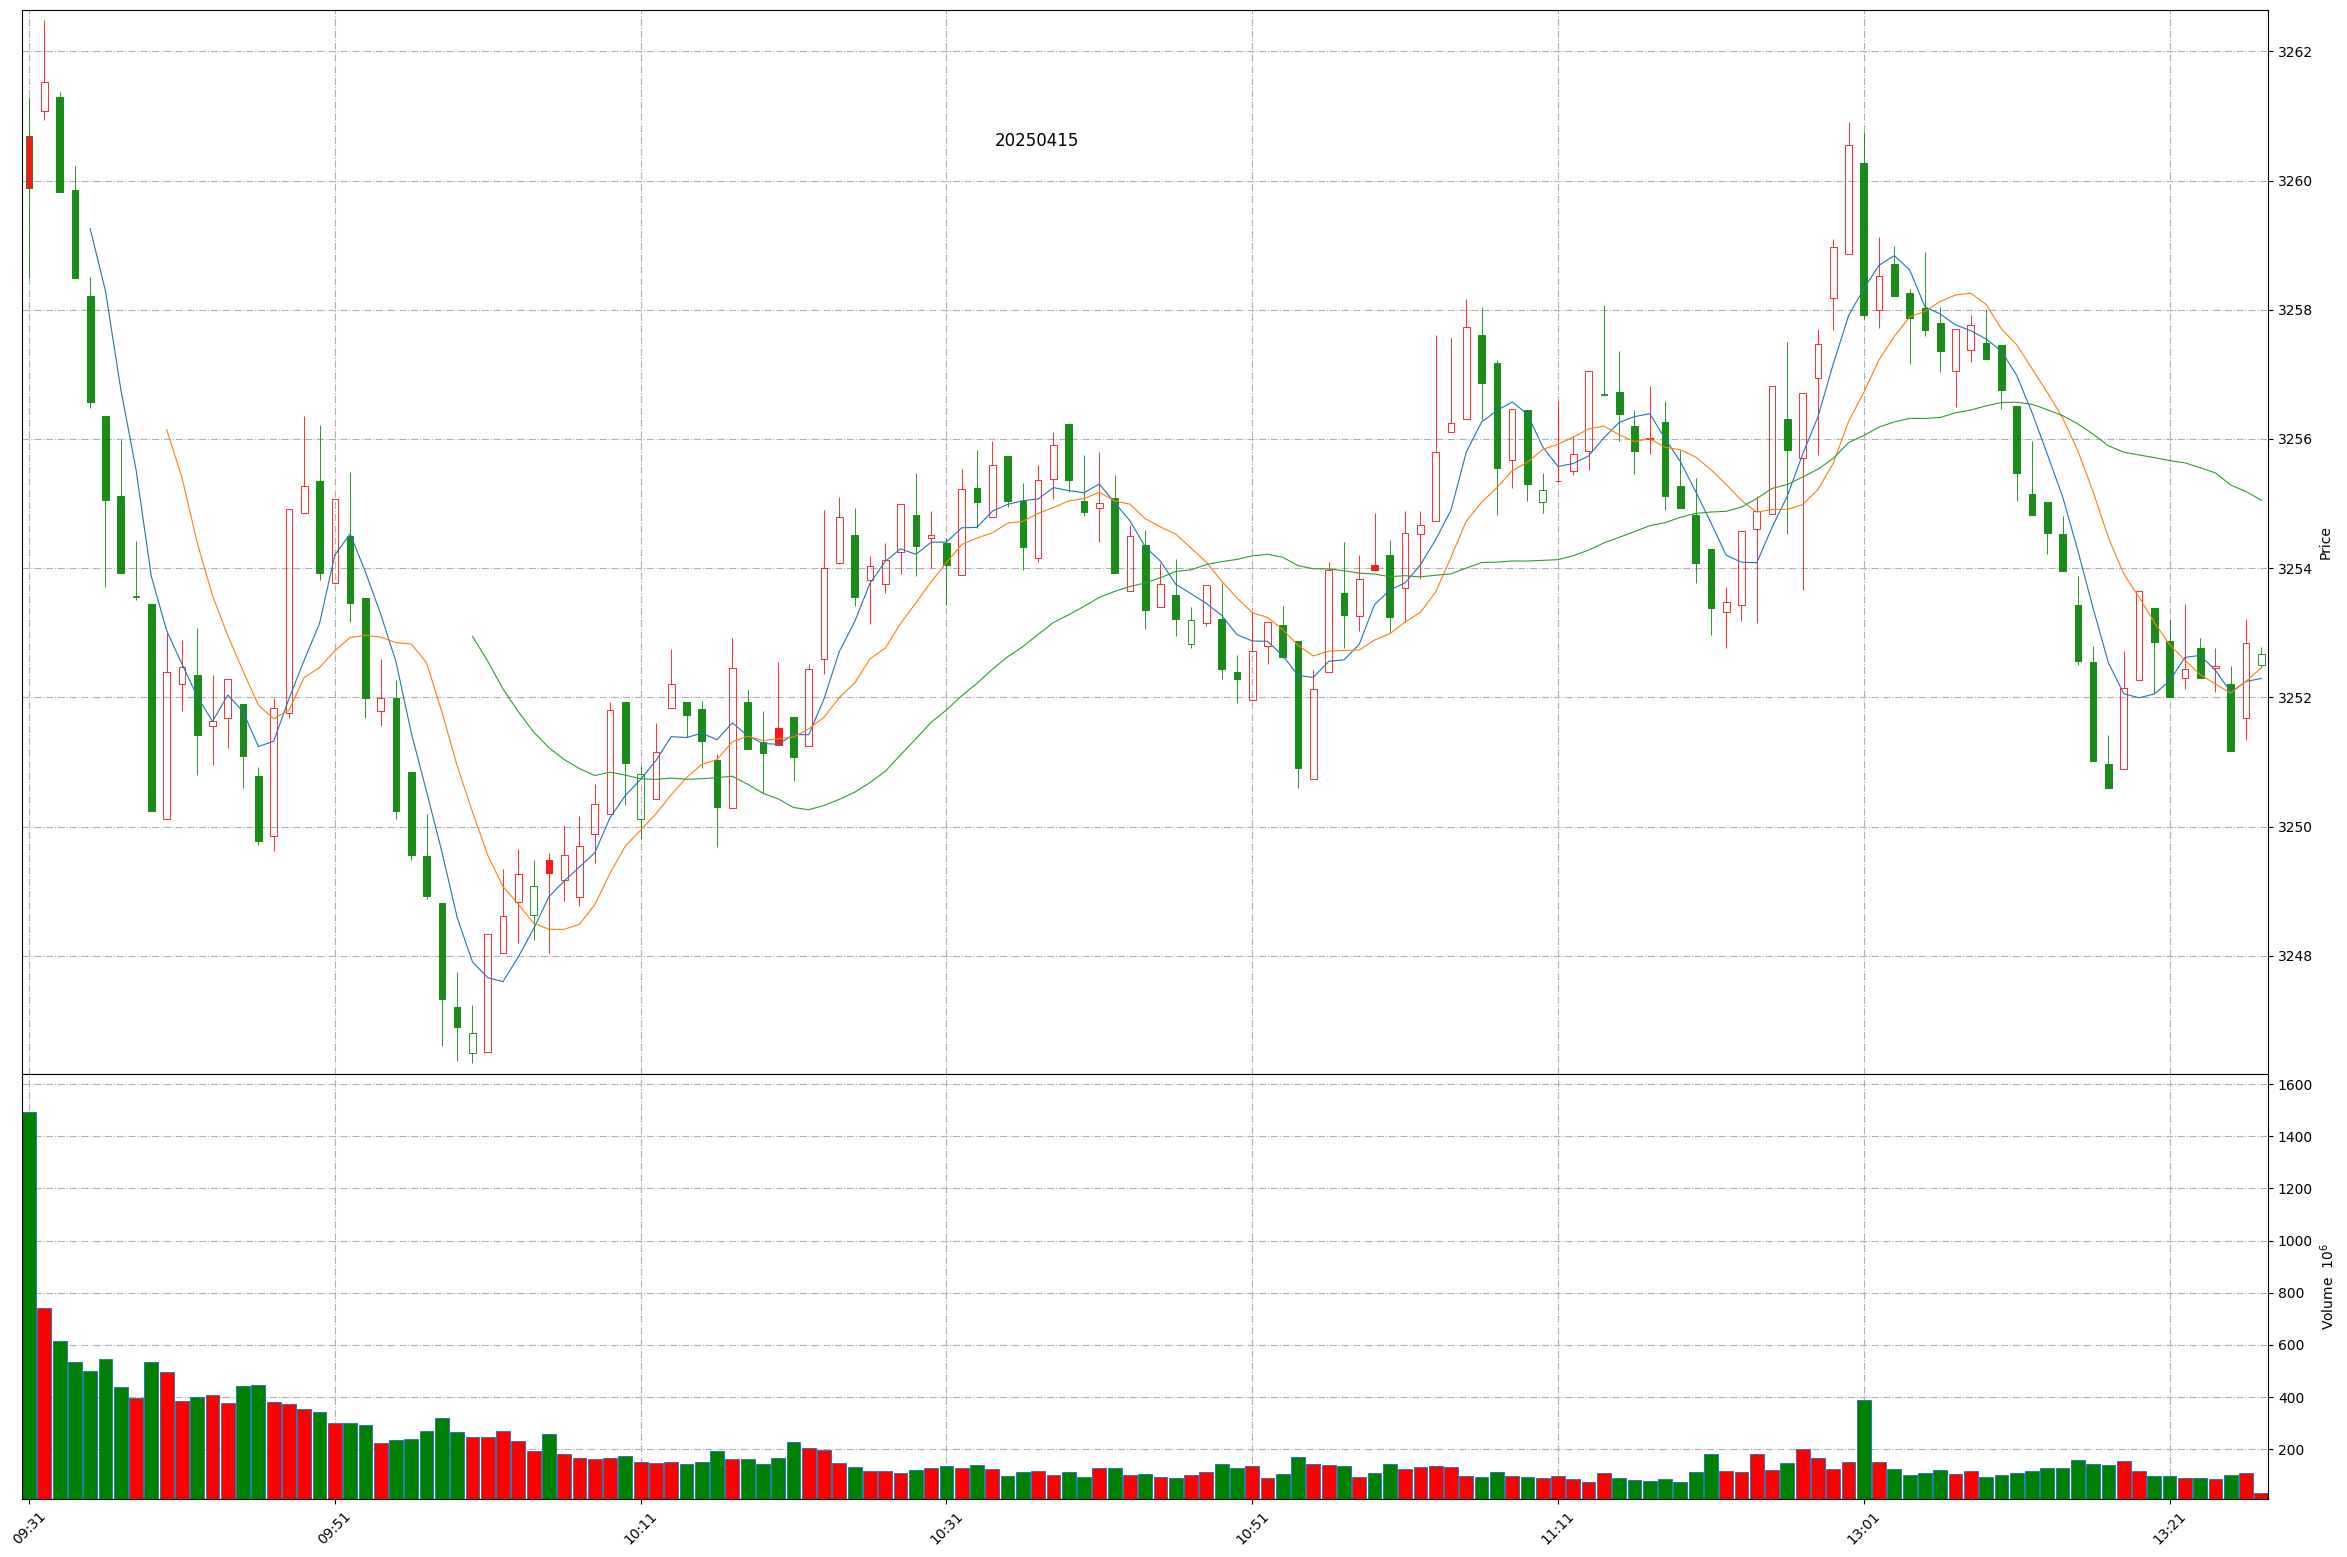
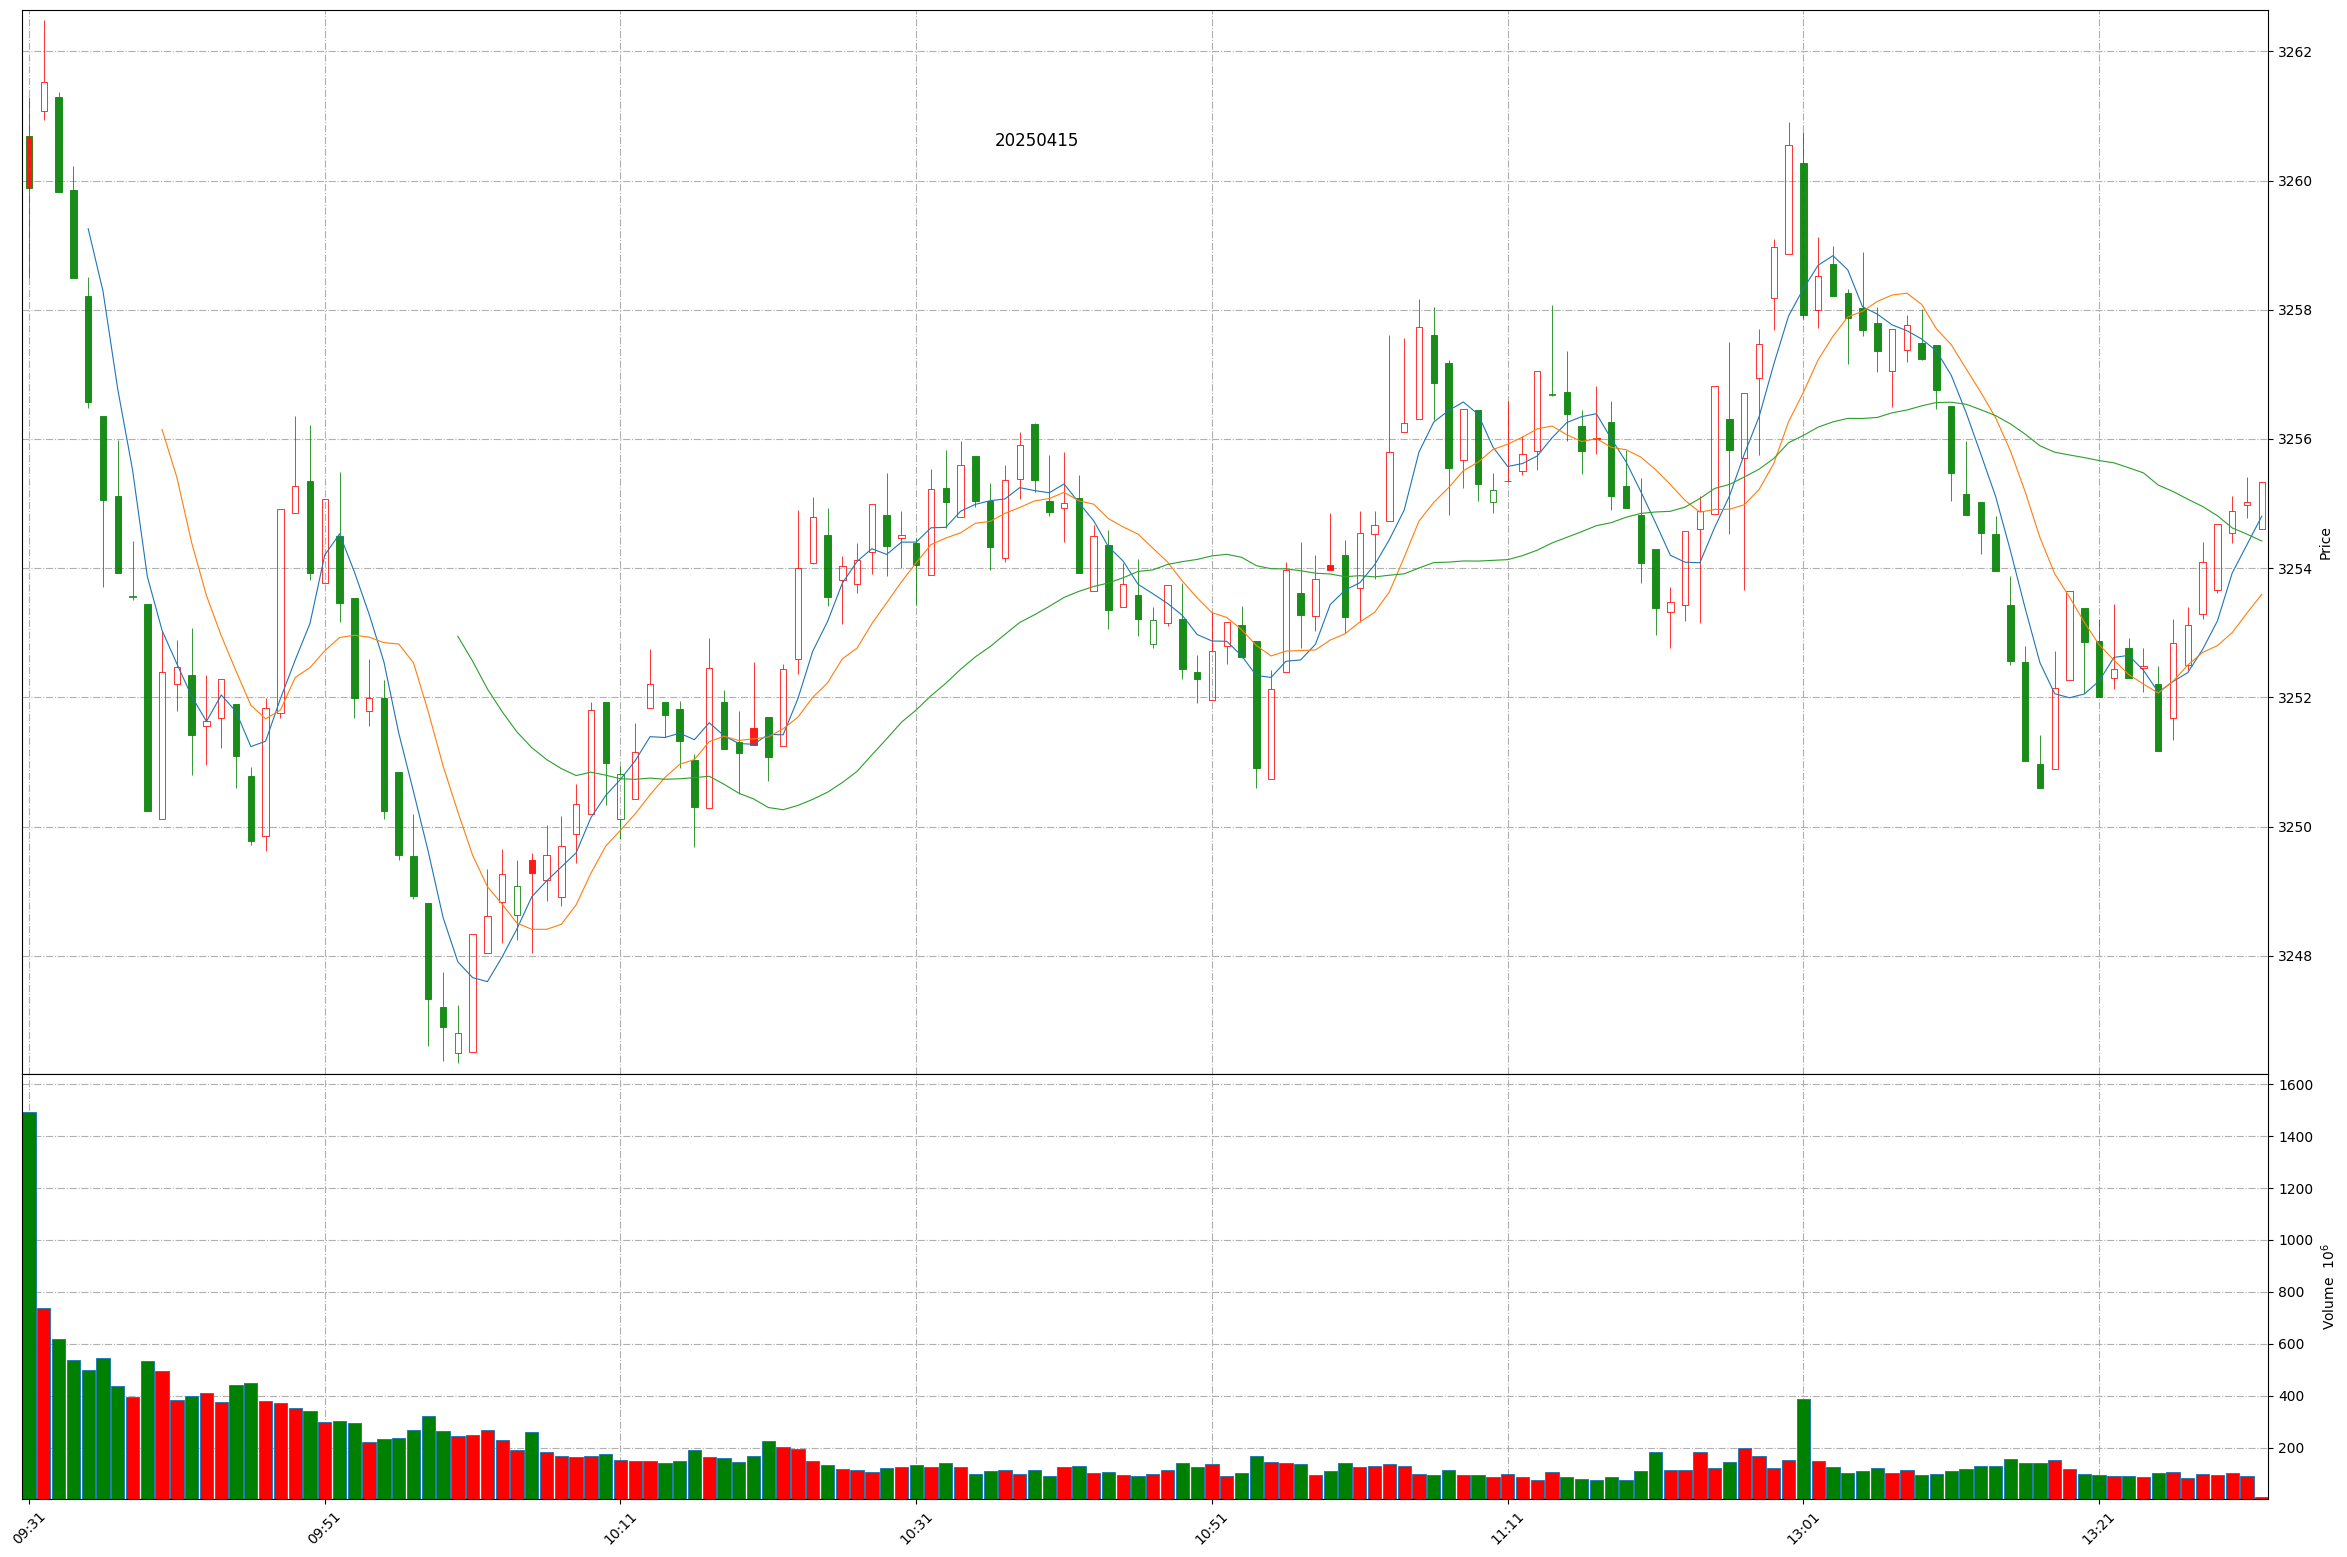
Github action update at 2025-04-15 13:31:26.

diff --git a/README.md b/README.md
@@ -1,11 +1,11 @@
 
 # Daily-A-share-market-quotes 每日 A 股指数（5min 更新）- 20250415
 
-### 上证指数 20250415 13:26
+### 上证指数 20250415 13:31
 ![](./fig/2025/4/20250415-sh000001.png)
 
-### 深证成指 20250415 13:26
+### 深证成指 20250415 13:31
 ![](./fig/2025/4/20250415-sz399001.png)
 
-### 北证50 20250415 13:26
+### 北证50 20250415 13:31
 ![](./fig/2025/4/20250415-bj899050.png)
